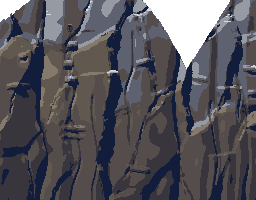
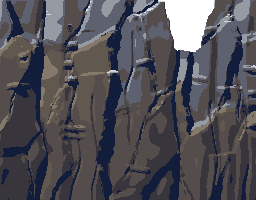
Lanternhold world lane, world-1's open blocker 3 (the critic's look 3: the slit a ruler-straight V with a dotted rim, too wide): each wedge of sky at most 12 % of the screen wide and about a quarter deep, both edges broken crag profiles in runs of 2 to 6 px, a broken floor where the moon stands (its

diff --git a/games/lanternhold/Core/SceneLayoutLook2.swift b/games/lanternhold/Core/SceneLayoutLook2.swift
@@ -225,9 +225,10 @@ extension SceneLayout {
     static let look2ShaftX = 1104.0
     /// The middle of the wedge of sky over the bailey, where the moon stands at night (tools/cleftart.py `WEDGES`).
     static let look2SlitMoonX = 1010.0
-    /// Rows from the screen's top to the wedge moon's top (fix round 2; 22 before): under the HUD's deepest rectangle
-    /// (the stat panel ends 66 pt under the top of the runner's 402 pt screen, row 33 of its 201), with 3 rows to spare.
-    static let look2SlitMoonTop = 36.0
+    /// Rows from the screen's top to the wedge moon's top (world-2: 34, so the wedge is about a quarter of the screen
+    /// deep, the critic of world-1's look 3; 36 in fix round 2, 22 before): under the HUD's deepest rectangle (the stat
+    /// panel ends 66 pt under the top of the runner's 402 pt screen, row 33 of its 201).
+    static let look2SlitMoonTop = 34.0
     static let look2ShaftShare: Float = 1.0   // fix round 1: a stronger shaft (0.85 before)
 
     /// The granite the gatehouse's towers grow out of (H2, tools/cleftart.py): a shoulder of bedrock at each tower's

diff --git a/games/lanternhold/tools/cleftart.py b/games/lanternhold/tools/cleftart.py
@@ -78,26 +78,62 @@ SLIT_ROWS = 24
 # with rock"): the wall stands to the screen's top except in two wedges, over the gatehouse (seen when the camera is on
 # the gate) and over the bailey (seen from world 1600 to 2100, where the moon stands in it at night). (centre, half
 # width at the top, depth in rows, seed)
-# Fix round 2: the bailey's wedge deeper (68 rows), so the moon stands in it 36 rows under the screen's top, under
-# every rectangle of the HUD at every camera (the critic: "the moon is half hidden behind the stat panel").
-WEDGES = [(792, 62, 46, 521), (1010, 44, 68, 523)]
+# World-2 (the critic of world-1, look 3: "the jagged slit is a ruler-straight V with a dotted rim, and too wide"): each
+# wedge at most 12 % of the screen wide (half width 27) and about a quarter of its height deep; both edges broken crag
+# profiles (runs of 2 to 6 px, each falling in its own curve, steep faces and shoulders), a narrow floor where the
+# moon stands (its top 34 rows under the screen's top); no lit rim on the wedges' edges (`slit_rim`).
+WEDGES = [(792, 27, 40, 521), (1010, 27, 50, 523)]
+_WEDGE_CACHE = {}
+
+
+def wedge_profile(c, half, depth, sd):
+    """{canvas x: rows of sky from the top} of one wedge: from each outer edge inward, runs of 2 to 6 px (the critic's
+    6 to 20 px of the phone's view), each falling by its own share of the depth in its own curve (u ** p: a steep crag
+    face, a rounded shoulder, a ledge), with a broken floor 9 px either side of the centre."""
+    key = (c, half, depth, sd)
+    if key in _WEDGE_CACHE:
+        return _WEDGE_CACHE[key]
+    prof = {}
+    for side in (-1, 1):
+        total = half - 9
+        runs, x, k = [], 0, 0
+        while x < total:
+            w = 2 + int(h01(sd, side + 5, k, 1) * 5)
+            if total - x < w + 2:
+                w = total - x
+            runs.append(w)
+            x += w
+            k += 1
+        weights = [0.08 + h01(sd, side + 5, i, 2) ** 1.6 * 1.8 for i in range(len(runs))]
+        weights[0] *= 0.6
+        total_w = sum(weights)
+        t, x = 0.0, 0
+        for i, w in enumerate(runs):
+            drop = depth * weights[i] / total_w
+            p = 0.35 + h01(sd, side + 5, i, 3) * 2.4
+            for j in range(w):
+                gx = c + side * (half - (x + j))
+                prof[gx] = max(prof.get(gx, 0.0), t + drop * ((j + 1) / float(w)) ** p)
+            t += drop
+            x += w
+        for j in range(x, half + 1):
+            gx = c + side * (half - j)
+            prof[gx] = max(prof.get(gx, 0.0), depth - 1 + 3.0 * h01(sd, gx // 3, 5))
+    _WEDGE_CACHE[key] = prof
+    return prof
 
 
 def slit(gx):
-    """Rows from the canvas top where the rock begins: 0 where the wall closes the sky; in a wedge a V between two
-    rock edges, each a stair of blocks (a few rows high, its own lean), the west edge a little steeper."""
+    """Rows from the canvas top where the rock begins: 0 where the wall closes the sky; in a wedge its crag profile."""
     t = 0.0
-    for (c, half, depth, sd) in WEDGES:
-        d = gx - c
-        if abs(d) >= half:
-            continue
-        u = 1 - abs(d) / float(half)
-        # the edges: a stair of blocks (each 3 to 8 px wide), so the V is cut in rock, not drawn with a ruler
-        k = int((gx - c + 400) // (3 + 5 * h01(sd, int((gx - c + 400) // 6))))
-        stair = 3.0 * (h01(sd + 1, k) - 0.5)
-        shape = u ** (1.25 if d < 0 else 1.0)
-        t = max(t, depth * shape + stair * min(1.0, u * 4))
-    return max(0.0, t)
+    for wedge in WEDGES:
+        t = max(t, wedge_profile(*wedge).get(int(round(gx)), 0.0))
+    return t
+
+
+def slit_rim(gx, y):
+    """World-2: no lit rim on a wedge's edges (the critic: "a 1 px dotted pale line runs down one edge from the moon")."""
+    return slit(gx) < 0.5
 
 
 def cleft_top(gx):
@@ -258,7 +294,7 @@ def cleft_piece(name):
     gx0, w = PIECES[name]
     field = RF.Field(cleft_massif(), gx0, w, CLEFT_H, cleft_top)
     img = RF.paint(field, "cleft", snow_rows=24, snow_share=0.5, cold_rows=90, seed=601, contrast=1.2,
-                   caps=True, lit_rim=True, clamp=0.55, rim_broken=True, gain_at=cleft_gain)
+                   caps=True, lit_rim=True, clamp=0.55, rim_broken=True, gain_at=cleft_gain, rim_at=slit_rim)
     snow_caps(img, field, gx0)
     for spec in THREADS:
         if gx0 - 12 <= spec[0] < gx0 + w + 12:

diff --git a/games/lanternhold/tools/rockfield.py b/games/lanternhold/tools/rockfield.py
@@ -522,7 +522,7 @@ def shade(field, x, y, light=LIGHT, sky_fall=0.5, ambient=0.14, clamp=0.0):
 
 def paint(field, ramp_name, gain=1.0, lift=0.0, dither=0.0, snow_rows=0, snow_share=0.6, rim=0.55, mist_left=None,
           wet=(), seed=1, contrast=1.0, cold_rows=0, caps=False, lit_rim=False, clamp=0.0, rim_broken=False,
-          gain_at=None):
+          gain_at=None, rim_at=None):
     """The field painted on a new image: light → ramp index with a sparse ordered dither; snow on the faces that look
     up in the top `snow_rows`; a cold rim on the edges against the sky; `wet` streaks below water threads; west of
     `mist_left` = (gx_a, gx_b) the rock pales toward the mist."""
@@ -580,7 +580,7 @@ def paint(field, ramp_name, gain=1.0, lift=0.0, dither=0.0, snow_rows=0, snow_sh
                 if vnoise(seed * 61 + int(y), gx / 13.0) < snow_share * share + 0.25 * (-ny - 0.3):
                     c = snow[2] if (lit and v > 0.55) else snow[1] if v > 0.35 else snow[0]
             edge_top = not field.inside(x, y - 1)
-            if lit_rim:
+            if lit_rim and (rim_at is None or rim_at(gx, y)):
                 # fix round 1 (the critic: "single white rim dots"): a continuous lit edge on the faces that look up
                 # or west (toward the light), none on the shaded east slopes; two pixels where the edge is steep
                 west_open = not field.inside(x - 1, y)
@@ -597,7 +597,7 @@ def paint(field, ramp_name, gain=1.0, lift=0.0, dither=0.0, snow_rows=0, snow_sh
                 if lit_edge:
                     # (fix round 1: on a slope the edge is two pixels deep, so it reads as one line, not dots)
                     c = snow[1] if snow_rows and y < snow_rows else ramp[min(n - 1, max(k, n - 3) + 2 - second)]
-            elif rim and edge_top and h01(seed, gx) < rim:
+            elif rim and edge_top and h01(seed, gx) < rim and (rim_at is None or rim_at(gx, y)):
                 c = snow[1] if snow_rows and y < snow_rows else ramp[min(n - 1, k + 2)]
             if mist_left and gx < mist_left[1]:
                 # the west end pales into the mist band: a boundary that leans with the slope (never a column),
